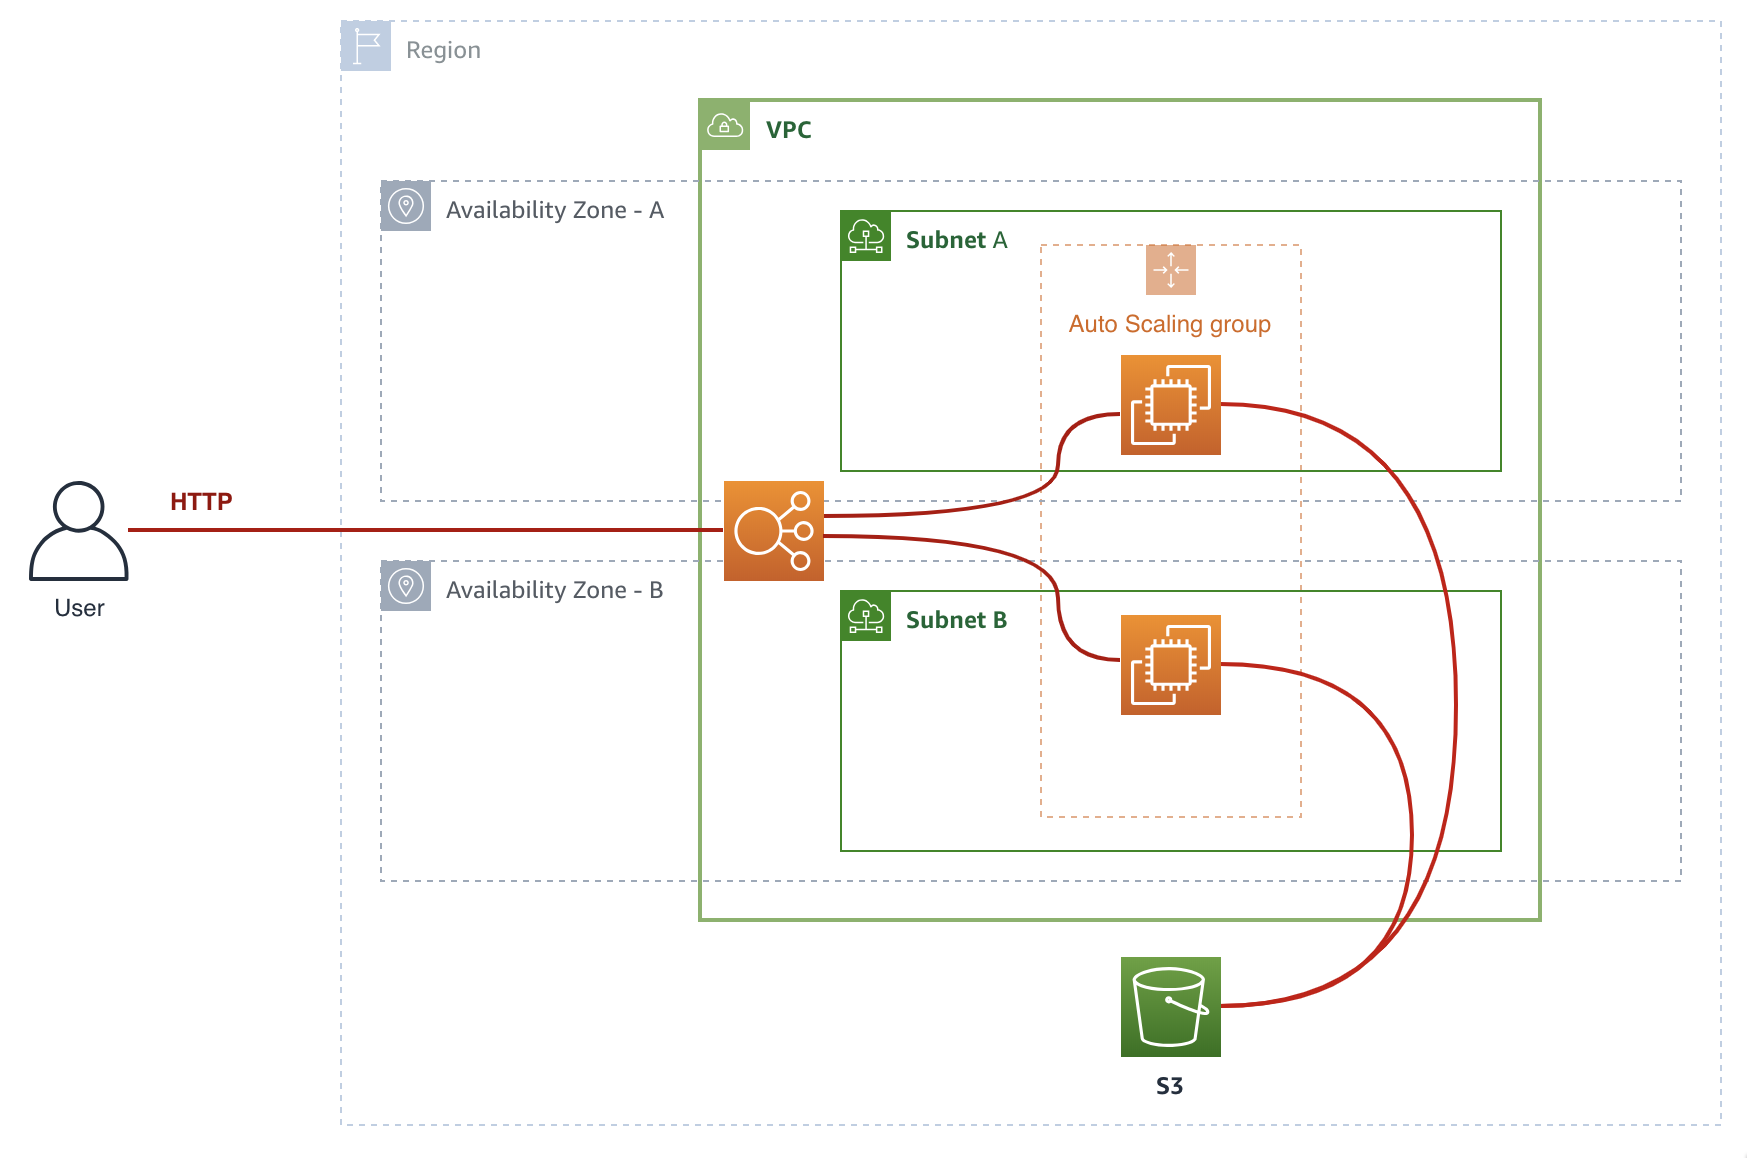
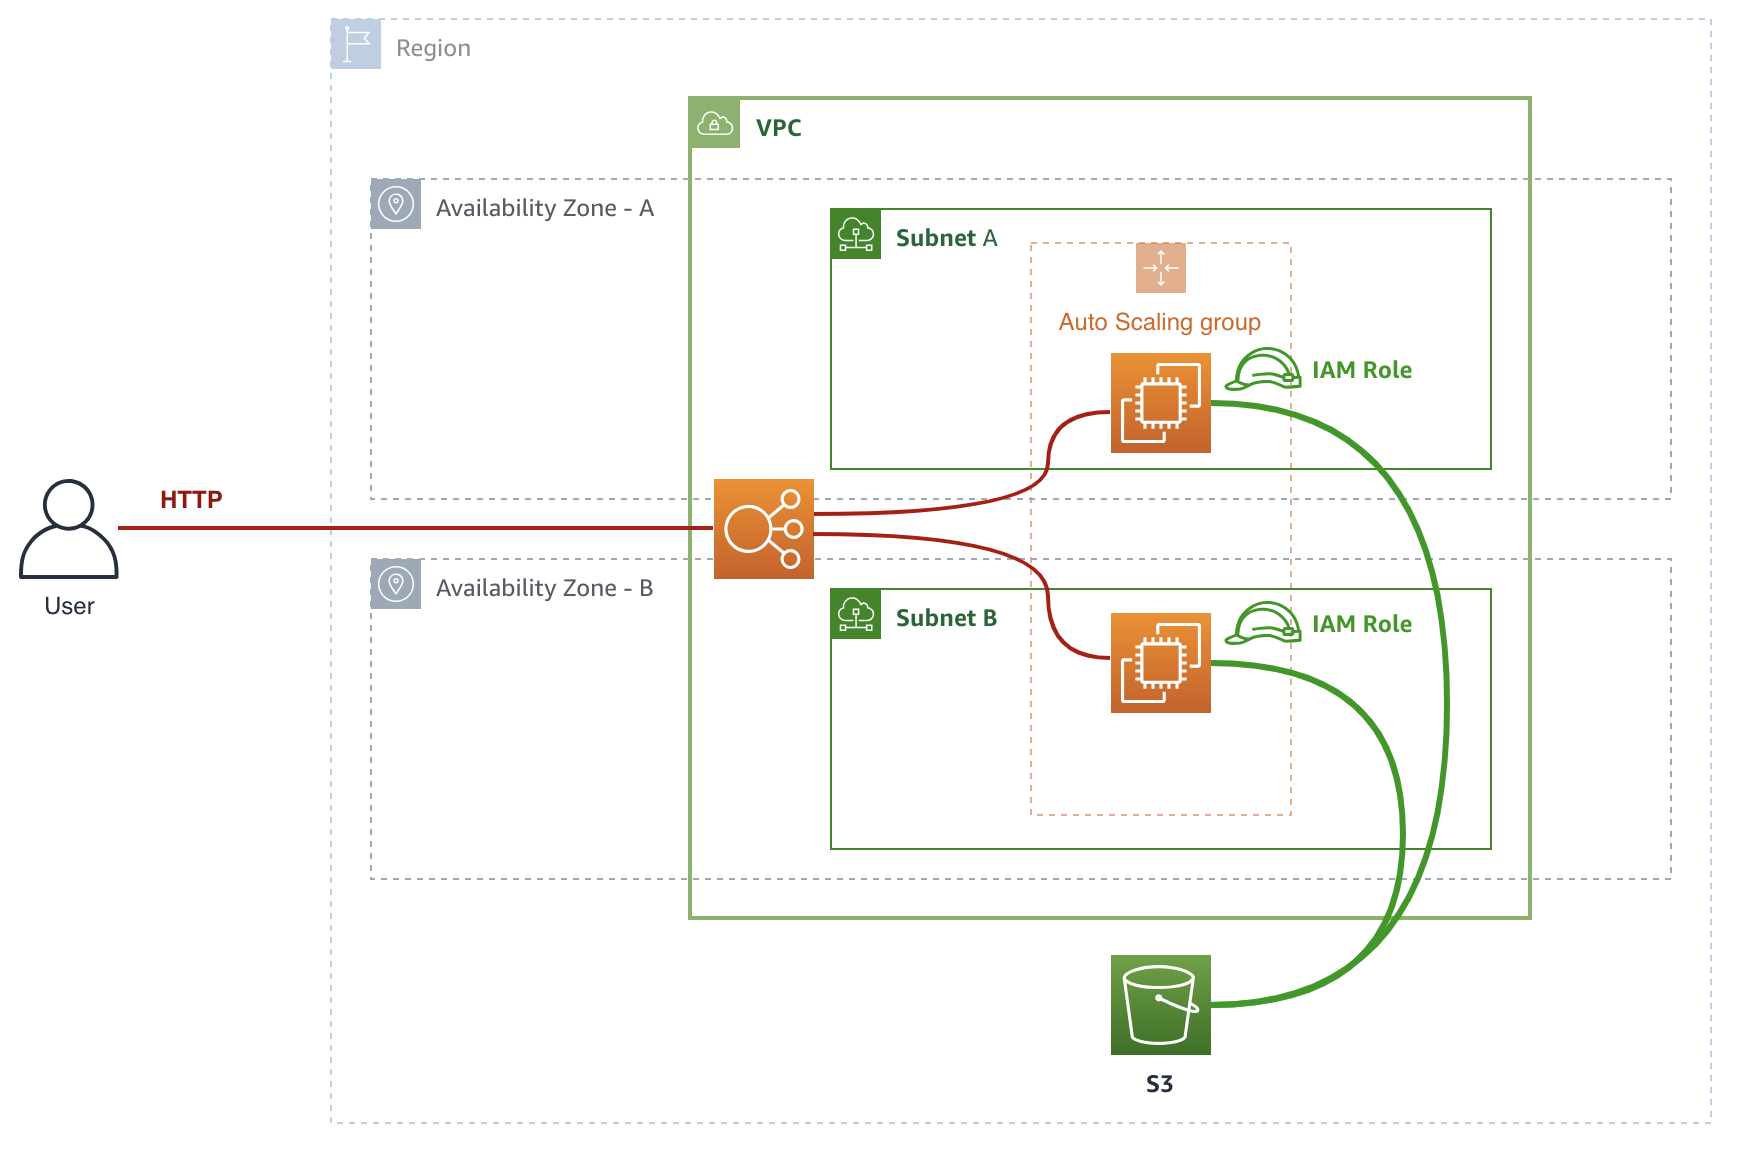
Milestone commit for module 05

diff --git a/README.md b/README.md
@@ -1,184 +1,62 @@
-Module 4: Using S3 to store file uploads
+Module 5: Improve security with IAM Roles
 ===
 
-The AWS cloud is made up of 160+ services, all of which you can put together in interesting ways
-to create application workloads of vastly different functionalities. You can think of the AWS cloud
-as a collection of lego pieces that you just put together a certain way to get a certain result.
+In the previous module, we gave our web application permissions to upload to S3 by creating a user
+it can use to authenticate into the AWS cloud. We used access keys and secrets to allow our server to communicate and function.
 
-In this module, let's look at integrating [Amazon S3](https://aws.amazon.com/s3) into our application.
-Let's assume our web application requires image uploads of some sort --- we could always save uploaded images
-in the EC2 instances' disk (this is called [EBS](https://aws.amazon.com/ebs) if you remember), 
-but if the EC2 instance goes away for some reason (for example, auto scaling, or if it crashes), you stand
-the risk of losing your files. Not to mention that you will potentially have tens, or hundreds, maybe even thousands
-of EC2 instances --- wouldn't it be simpler to store files in a central repository?
+While there are very valid use cases for access keys, in the previous module, we really used them in an insecure manner. We hardcoded the keys in plaintext in some of our deployment configurations, and, really, we gave our web application more governing power over our bucket than what it just needed. In the event that our access keys were compromised (and at this point, it's really just a matter of time), the keys can be used to, for example, irrecoverably delete our bucket.
 
-Amazon S3 is highly-durable, highly-available object storage. You can use it to reliably store
-a virtually unlimited number of files for your applications' use. 
+We need to improve on this, and we need to do it as early as possible in the development process.
 
 
 ## Solution Architecture
 
-We'll introduce an **S3 bucket** into our architecture. All the web servers that we have running in our fleet
-will be able to save uploaded files into this S3 bucket.
+The architecture for this module is almost exactly the same as the one from last module, 
+but we'll improve on some security elements of it.
 
 ![architecture](__assets/architecture.png)
 
+Namely, we'll use [IAM Roles](https://docs.aws.amazon.com/IAM/latest/UserGuide/id_roles.html) to delegate permissions to our EC2 instances that serve as web servers so that we won't have to manage access keys anymore.
 
 
 ## Implementation Overview
 
 Make sure you're using the same application as from the previous module.
 
-### 1. Create an S3 bucket
 
-In Amazon S3, a bucket is a logical container for your objects. 
-You can create as many buckets as you want, and put in as many files as you want inside each.
+### 1. Delete the IAM user used by your web servers
 
-When you create a bucket, you decide which AWS region it gets created in --- but take note that
-the bucket name **has to be unique globally**, across all AWS accounts. This means that you won't be able
-to create a bucket called `testbucket`, because somebody would probably have created that in the past.
+To start our security improvement efforts, let's delete the IAM user we created from last module.
+By deleting this IAM user, we are effectively revoking our application's permissions to use our S3 bucket. We'll reinstate the permissions later using better methods.
 
 #### High-level instructions
 
-Create an S3 bucket. For the purposes of this workshop, specify that this bucket is available for public access.
-
-> **Important**: To facilitate this workshop much more easily, we are **deliberately** making your S3 bucket publicly available.
-> In a real-life use-case, chances are you **shouldn't** make your bucket publicly available, and if you _have_ to make them publicly available,
-> there are generally better ways to do that rather than specifying that the entire bucket is plainly public.
+Delete the IAM user you created from last module.
+Confirm that the image upload on your web application does not work anymore.
 
 <details>
   <summary><strong>Step-by-step instructions (click to expand):</strong></summary>
   <p>
-1. Navigate to your S3 dashboard through the console.
 
-2. Create a bucket, and give it a name you'll easily remember and recognize. Note that it has to be unique across all buckets globally.
+1. Go to your IAM dashboard, and navigate to the **Users** dashboard.
 
-3. Leave all the settings in `Step 2` at their default values, but spend the time to take a look at what you can potentially configure.
+2. Locate the user you created from last module, and select it and click **Delete user**. A confirmation box will appear that warns you about recent access --- confirm that you're sure, and proceed with deletion.
 
-4. In `Step 3`, uncheck the 4 options for disabling public access to your bucket. **Read the warning above about this!**
+3. Once the user has been deleted, confirm that your web application cannot anymore save to S3 by attempting to upload another image. You should get an error saying that the access key used is unknown. This shows that your web application has lost permissions to interact with your S3 bucket.
 
-5. Once you're reviewed your configuration, finalize creating your bucket.
   </p>
 </details>
 
+---
 
-### 2. Create security credentials to upload to your bucket
+### 2. Update your IAM policy
 
-Not just anyone can write into your bucket, and that includes your web application.
-To be able to put stuff in, your web application will need to identify itself to AWS, and be granted permission to write into your bucket.
-In AWS, we do this using [AWS Identity and Access Management (IAM)](https://aws.amazon.com/iam).
+Last module, you created a policy that gave full access to your S3 bucket. 
+Best practice dictates that we follow the **principle of least-privilege** --- meaning we should only give enough permissions as necessary for a process to be able to do what it needs to do, and nothing more.
 
-We'll talk more about IAM and security in the next discussion topic.
+In our scenario, our web application only needs to be able to upload new images into our S3 bucket --- it doesn't need to do anything else.
 
-#### High-level instructions
-
-Create a new IAM user with programmatic access to your account.
-Give it full access privileges to your S3 bucket, and take note of the access keys provided.
-
-<details>
-  <summary><strong>Step-by-step instructions (click to expand):</strong></summary>
-  <p>
-1. Navigate to your IAM dashboard through the console. Go to the **Users** section from the left-hand navigation.
-
-2. Click **Add User** at the top. Give your user a unique, memorable name, and select **Programmatic access** at the bottom. Click **Next**.
-
-3. The next screen allows you to select permissions for your user --- what they can and cannot do on what resources.
-   1. Select **Attach existing policies directly**, then select **Create policy**.
-   2. Use the **Visual Editor** in the next screen.
-   3. Select `S3` for **Service**.
-   4. Select `All S3 actions` for **Actions**.
-   5. Click **Resources**, then choose `Add ARN` for **bucket**. Put in your bucket name, then click **Add**.
-   6. Select `Any` for **object**.
-   7. Click **Review policy**. Give your policy a name and description, then if you're OK with it, click **Create Policy**.
-
-4. You should be back in the **Add user** screen. Find the policy you just created, and add it to the user you're creating.
-
-5. Go through steps 3 and 4, then click **Create user** once you're satisfied.
-
-6. If you've configured the user correctly, you should see a screen which displays the user's **Access key ID** and **Secret access key**. Copy both, and put them somewhere for now. **Make sure you don't let anybody else see them!**.
-
-![IAM new user](__assets/iam_newuser.png)
-  </p>
-</details>
-
-
-### 3. Update your servers configuration to use your IAM user
-
-Your web application is already configured to upload to an S3 bucket, but you will need to configure it with the credentials required to do so.
-The source code of the app is looking for the following environment variables:
-
-- `AWS_ACCESS_KEY` --- this is your IAM user's **Access key ID**
-- `AWS_SECRET_ACCESS_KEY` --- this is your IAM user's **Secret access key**
-- `AWS_UPLOAD_BUCKET_NAME` --- this is your S3 bucket name
-
-If you're interested to see how they're being used, look at `/src/config.js` and `/src/utils/upload.js` in this codebase.
-
-We will need to update our auto-scaling launch configuration to take these variables into account.
-
-<details>
-  <summary><strong>Step-by-step instructions (click to expand):</strong></summary>
-  <p>
-1. Go to **Launch Configurations** on the left hand navigation of your **EC2 dashboard**.
-
-2. Select your configuration from earlier, then click **Actions**, then **Copy launch configuration**.
-
-3. In the resulting pane, go back to **Step 3**.
-   1. (Optional) You might want to change the name to something more meaningful.
-   2. In **User data** under Advanced Details, update it to the following. Make sure you change the appropriate values for the 3 `export` statements.
-```
-#!/bin/bash -xe
-exec > >(tee /var/log/user-data.log|logger -t user-data -s 2>/dev/console) 2>&1
-
-export AWS_ACCESS_KEY=<your access key>
-export AWS_SECRET_ACCESS_KEY=<your secret access key>
-export AWS_UPLOAD_BUCKET_NAME=<your S3 bucket name>
-
-curl https://raw.githubusercontent.com/creationix/nvm/master/install.sh | sh
-source /.nvm/nvm.sh
-
-nvm install 8.10
-nvm use 8.10
-npm install -g forever
-
-git clone https://github.com/team-siklab/workshop-simple-webapp.git app
-cd app
-git checkout module-02
-
-npm install
-forever start app.js
-```
-
-4. Click **Skip to review**, then click **Create launch configuration** if you're satisfied.
-
-5. Navigate to **Auto Scaling Groups**, then select your ASG. Click **Actions**, then **Edit**.
-
-6. Update the value of **Launch Configuration** to use your update configuration. Then click **Save**.
-
-7. Go to your EC2 **Instances**, and terminate all the instances belonging to your ASG. It might be easier to look at the **Instances** tab on your ASG, and terminate them one by one.
-
-8. Since you just rendered your web application offline, your ASG will automatically try to heal itself by creating new instances. This time, it will use your new launch configuration.
-  </p>
-</details>
-
-
-### 4. Test the image upload workflow
-
-Your web servers have an file upload form when you visit it at the root.
-(i.e. when you visit the load balancer URL, without anything else after it.)
-
-![simple webapp](__assets/simple-webapp.png)
-
-When you select an image and submit it to upload, the app logic will take your file
-and save it into the S3 bucket that you provided. The response page will give you a
-dump of the JSON response containing the direct URL of the file in S3. You can use that URL
-to download the file from S3 directly.
-
-If you visit your S3 bucket, you should also be able to view the files you've uploaded
-inside. You can also download and view them from the S3 bucket dashboard, as well as perform
-other actions like delete, or copy / move, or even control their lifecycle and access policies.
-
-![bucket contents](__assets/s3-contents.png)
-
+We should update our policy to reflect this, and not have it over-provision permissions.
 
 ## Summary
 
